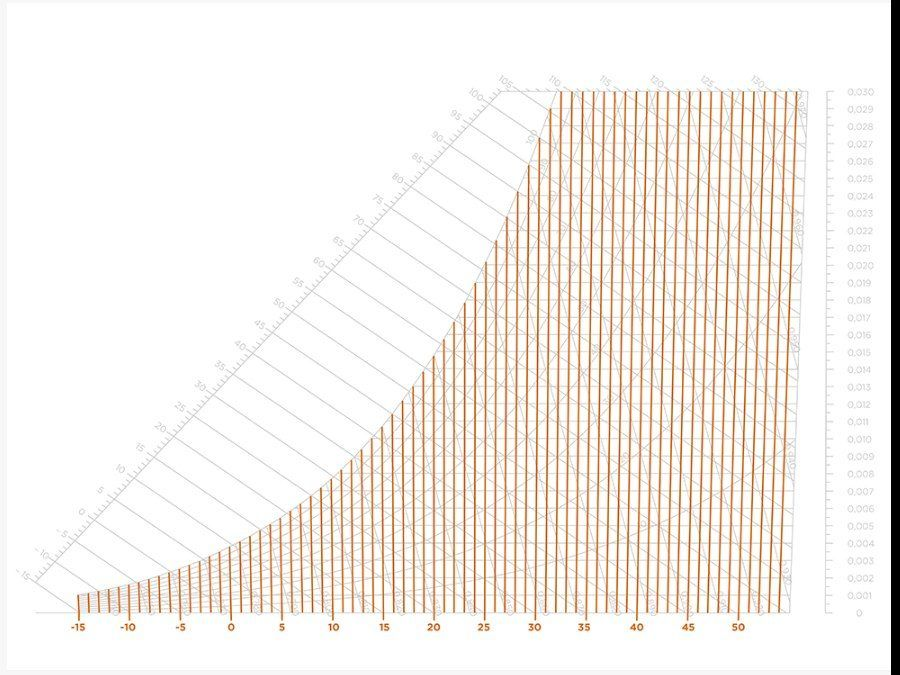
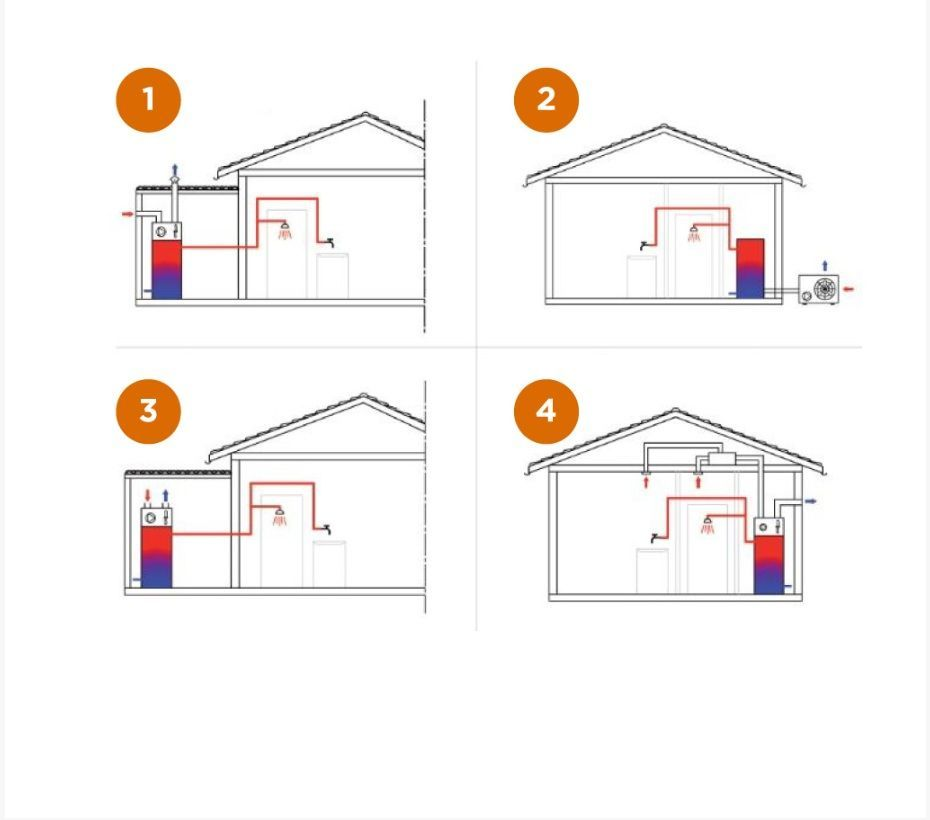
Add files via upload

diff --git a/sw.js b/sw.js
@@ -1,6 +1,6 @@
 /* Service worker : rend l'application utilisable hors connexion.
    Changez CACHE a chaque mise a jour du contenu pour forcer le rafraichissement. */
-const CACHE = "mctb-quiz-v2";
+const CACHE = "mctb-quiz-v3";
 const BASE = [
   "./", "./index.html", "./questionnaires.json", "./manifest.json",
   "./icone-192.png", "./icone-512.png"
